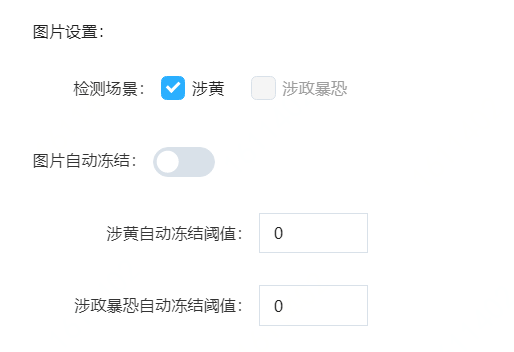
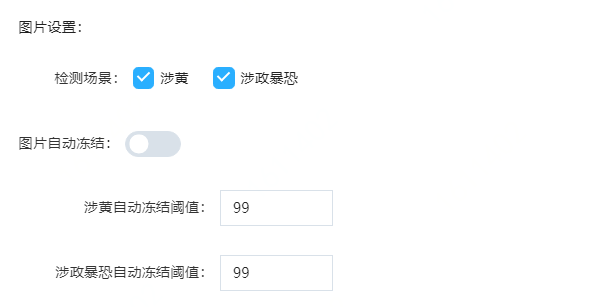
update  image

diff --git a/documentation/Cloud-Security/Content-Moderation/Operation-Guide/OSS-Voilate-Detection/OSS-Scan-Setting.md b/documentation/Cloud-Security/Content-Moderation/Operation-Guide/OSS-Voilate-Detection/OSS-Scan-Setting.md
@@ -33,7 +33,7 @@ OSS违规检测支持检测OSS Bucket中的增量内容和存量内容。
 
 ![image](../../../../../image/Content-Moderation/Operation-Guide/OSS-Violate-Detection/OSS-Setting-Frozen.PNG)
 
-	 步骤四、配置图片和视频。图片可以选择鉴黄和涉政暴恐场景的检测。图片自动冻结功能可以选择开关打开或者关闭。当开启图片自动冻结时，默认涉黄、涉政暴恐违规阈值是90，您可以自行调整阈值范围。
+	 步骤四、配置图片和视频。图片可以选择鉴黄和涉政暴恐场景的检测。图片自动冻结功能可以选择开关打开或者关闭。当开启图片自动冻结时，默认涉黄、涉政暴恐违规阈值是99，您可以自行调整阈值范围。
 
 ![image](../../../../../image/Content-Moderation/Operation-Guide/OSS-Violate-Detection/OSS-Setting-Picture.png)
 

diff --git a/documentation/Cloud-Security/Content-Moderation/API-Document/Audio-Detection-API/Audio-Asynchronous-Detection-API.md b/documentation/Cloud-Security/Content-Moderation/API-Document/Audio-Detection-API/Audio-Asynchronous-Detection-API.md
@@ -6,7 +6,7 @@
 
 ### 描述
 
-提交异步检测语音检测任务。支持对语音流或语音文件进行检测，判断其中是否包含违规内容。
+提交异步检测语音检测任务。支持对语音文件进行检测，判断其中是否包含违规内容。
 
 **说明** 语音异步检测默认使用中文语音检测引擎。
 

diff --git a/documentation/Cloud-Security/Content-Moderation/API-Document/Video-Detection-API/Video-Asynchronous-Detection-API.md b/documentation/Cloud-Security/Content-Moderation/API-Document/Video-Detection-API/Video-Asynchronous-Detection-API.md
@@ -4,7 +4,7 @@
 
 ### 描述
 
-异步检测视频文件或视频流中是否包含违规内容。
+异步检测视频文件中是否包含违规内容。
 
 支持检测的场景包括：视频智能鉴黄、视频暴恐涉政识别。
 
